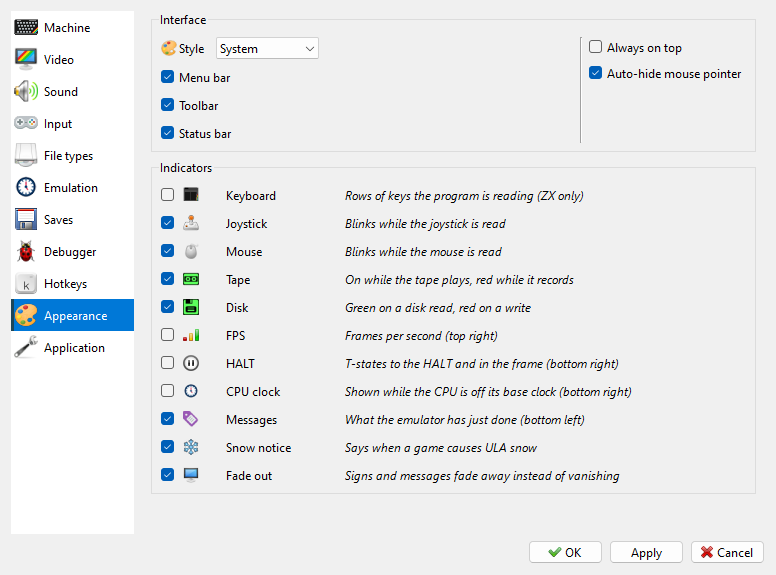
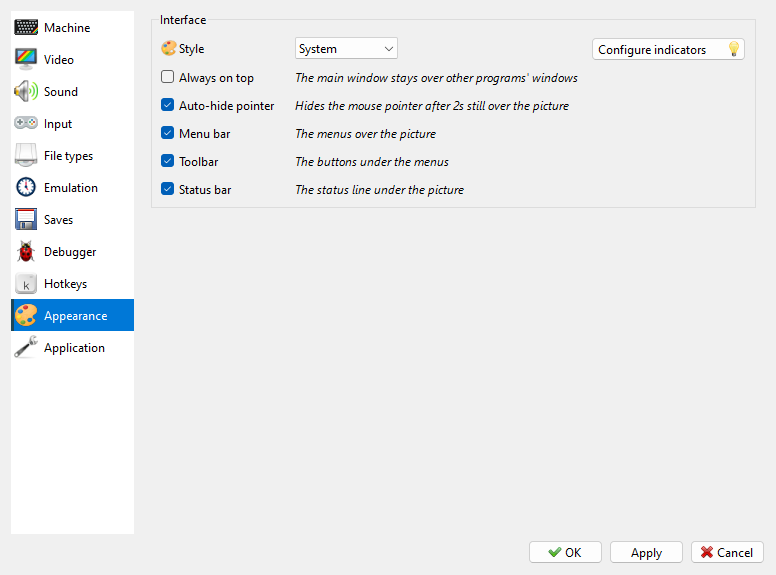
manual: the Appearance page with Configure indicators, the indicators' window and its picture

diff --git a/docs/manual/options-appearance.md b/docs/manual/options-appearance.md
@@ -1,17 +1,17 @@
 # Appearance page
 
-```{index} Appearance page, Style, interface style, Menu bar, Toolbar, Status bar, Always on top, Auto-hide mouse pointer
+```{index} Appearance page, Style, interface style, Menu bar, Toolbar, Status bar, Always on top, Auto-hide pointer, Configure indicators
 ```
 
 ![The Appearance page](images/options-appearance.png)
 
-- **Interface** - **Style**: **System** (the look of your system) or one of seven bundled
-  styles. **Menu bar**, **Toolbar**, **Status bar** show and hide the bars; on the right,
-  **Always on top** and **Auto-hide mouse pointer**. They are the same switches as in the
-  **View** menu: see [Menu Bar, Toolbar and Status Bar](view.md#menu-bar-toolbar-and-status-bar),
-  [Always on Top](view.md#always-on-top) and [Auto-Hide Pointer](view.md#auto-hide-pointer).
-  There is no **Menu bar** where the menus are in the system's menu bar, as on macOS.
-- **Indicators** - which signs are shown over the picture. See
+- **Style** - **System** (the look of your system) or one of seven bundled styles.
+- **Always on top**, **Auto-hide pointer**, **Menu bar**, **Toolbar**, **Status bar** - the
+  same switches as in the **View** menu: see [Always on Top](view.md#always-on-top),
+  [Auto-Hide Pointer](view.md#auto-hide-pointer) and
+  [Menu Bar, Toolbar and Status Bar](view.md#menu-bar-toolbar-and-status-bar). There is no
+  **Menu bar** where the menus are in the system's menu bar, as on macOS.
+- {icon}`lamp` **Configure indicators** - which signs are shown over the picture. See
   [Indicators on the picture](#indicators-on-the-picture).
 
 ## Indicators on the picture
@@ -19,8 +19,11 @@
 ```{index} Indicators, CPU clock, HALT indicator, Fade out, Snow notice
 ```
 
-The **Indicators** group on the **Appearance** page of **Options** sets what is drawn
-over the picture. Tick the ones you want:
+**Configure indicators** on the **Appearance** page of **Options** opens a window that sets
+what is drawn over the picture. Tick the ones you want; **OK** keeps them for the
+**Options** window, **Cancel** puts them back as they were:
+
+![The indicators](images/options-indicators.png)
 
 | Indicator | What it shows |
 |---|---|
@@ -38,7 +41,8 @@ over the picture. Tick the ones you want:
 
 **Joystick**, **Mouse**, **Tape**, **Disk**, **FPS** and **CPU clock** are drawn on the
 picture only while the status bar is hidden; with the status bar shown, they are in the
-status bar instead (see [Status bar](main-window.md#status-bar)).
+status bar instead (see [Status bar](main-window.md#status-bar)), and grey in the window
+while **Status bar** is ticked.
 
 In the top right corner a sign also shows the speed mode, in the manner of a video
 recorder: pause, rewind with how many seconds back, fast mode, fast forward or slow

diff --git a/docs/manual/ula-snow-floating-bus.md b/docs/manual/ula-snow-floating-bus.md
@@ -79,7 +79,7 @@ in drive A, a snapshot - and again when another one is opened or the machine is 
 
 Tick **Don't show this again** before either button to have no more of these messages, for
 any game: the snow is shown as before, without a word. **Snow notice** in
-**Options > Appearance**, **Indicators**, brings the message back (see
+**Options > Appearance**, **Configure indicators**, brings the message back (see
 [Indicators on the picture](options-appearance.md#indicators-on-the-picture)). Settings
 applied in **Options** while the message is up close it, and a tick in it is not kept.
 

diff --git a/docs/manual/view.md b/docs/manual/view.md
@@ -145,7 +145,7 @@ back when the window does. The switch is remembered; it is also **Always on top*
 **View > Auto-Hide Pointer** hides the mouse pointer once it stays still over the picture
 for 2 seconds, in a window and in fullscreen. A move brings it back; over the bars, a menu
 or a dialog it stays. It is on by default, and the switch is remembered; it is also
-**Auto-hide mouse pointer** on the [Appearance page](options-appearance.md) of **Options**.
+**Auto-hide pointer** on the [Appearance page](options-appearance.md) of **Options**.
 
 ## Shaders
 

diff --git a/docs/manual/main-window.md b/docs/manual/main-window.md
@@ -66,7 +66,7 @@ card. Either button on it opens the menu of **Media > SD Card**.
 ```
 
 The status bar shows how many frames a second the machine actually runs at. With the
-status bar hidden, tick **FPS** in the **Indicators** group on the **Appearance** page of
+status bar hidden, tick **FPS** under **Configure indicators** on the **Appearance** page of
 **Options** to see the number in the top right corner of the picture.
 
 ## The picture

diff --git a/docs/manual/tapes.md b/docs/manual/tapes.md
@@ -250,5 +250,5 @@ the tape is through it, with the commands of the deck on a right-click: see
 click on it opens the **Tape Player**.
 
 With the status bar hidden, a light over the picture blinks while the tape plays (green) or
-records (red). **Tape** in the **Indicators** group of the **Appearance** page of
+records (red). **Tape** under **Configure indicators** on the **Appearance** page of
 **Options** turns this light on and off.
